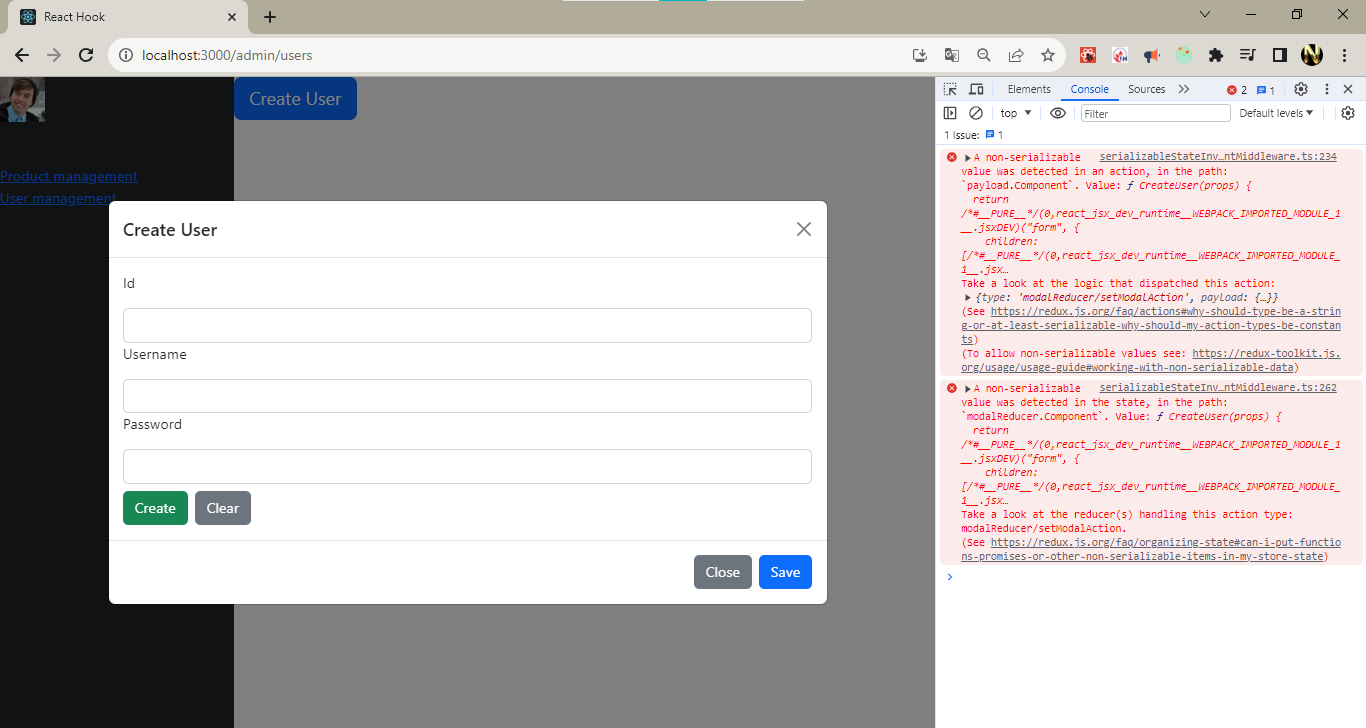
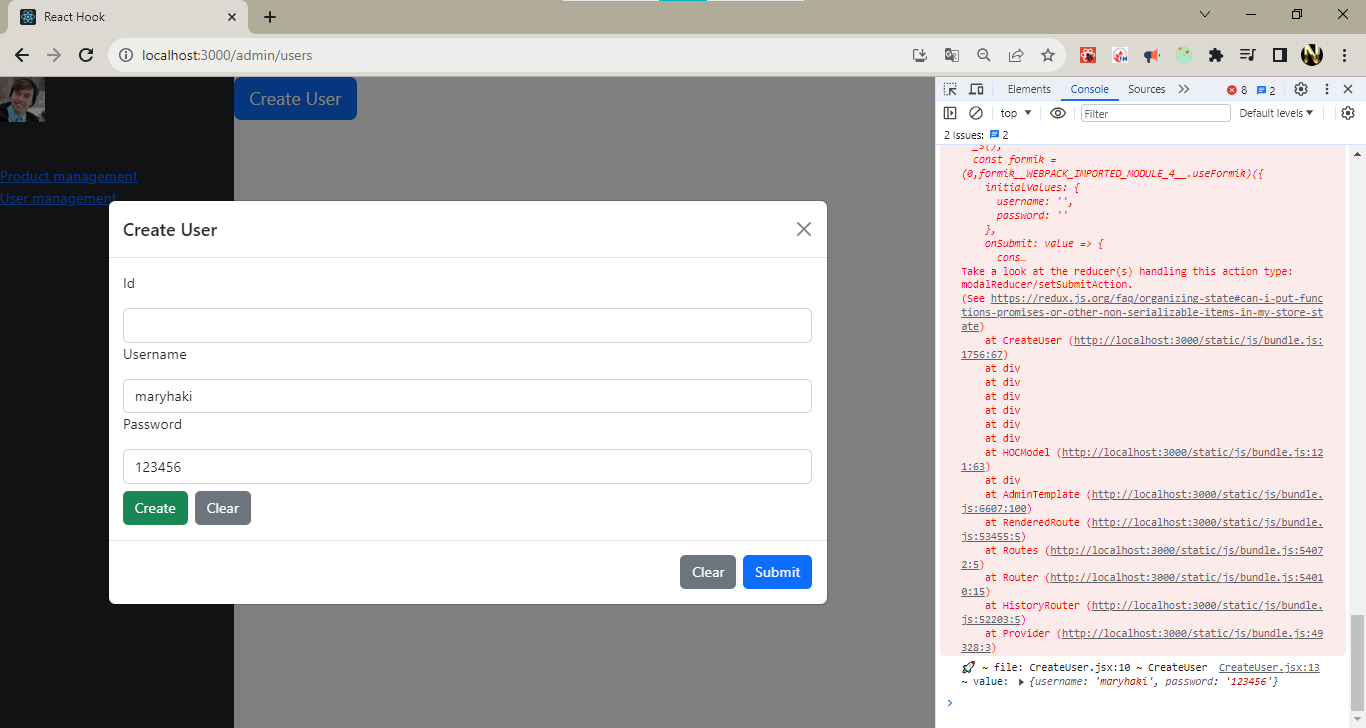
HOC reducer - chuyen data form - fun

diff --git a/react_buoi10/src/pages/Admin/UserManagement/CreateUser.jsx b/react_buoi10/src/pages/Admin/UserManagement/CreateUser.jsx
@@ -1,27 +1,65 @@
-import React from "react";
+import { useFormik } from "formik";
+import React, { useEffect } from "react";
+import { useDispatch } from "react-redux";
+import { setSubmitAction } from "../../../redux/reducers/modalReducer";
 
 export default function CreateUser(props) {
+  const formik = useFormik({
+    initialValues: {
+      username: '',
+      password:''
+    },
+    onSubmit: (value) => {
+      console.log("🚀 ~ file: CreateUser.jsx:10 ~ CreateUser ~ value:", value)
+      
+    } 
+  });
+
+const dispatch = useDispatch();
+
+  useEffect(()=> {
+    const action = setSubmitAction(formik.handleSubmit);
+
+    dispatch(action);
+  }, [])
+
+
   return (
     <form>
-      <div className="form-group">
+      <div className="form-group" onSubmit={formik.handleSubmit}>
         <p>Id</p>
         <input type="text" name="id" id="id" className="form-control" />
       </div>
 
       <div className="form-group">
         <p>Username</p>
-        <input type="text" name="username" id="username" className="form-control" />
+        <input
+          type="text"
+          name="username"
+          id="username"
+          className="form-control"
+          onChange={formik.handleChange}
+        />
       </div>
-
 
       <div className="form-group">
         <p>Password</p>
-        <input type="text" name="password" id="password" className="form-control" />
+        <input
+          type="text"
+          name="password"
+          id="password"
+          className="form-control"
+          onChange={formik.handleChange}
+        />
       </div>
 
       <div className="form-group mt-2">
-        <button type="submit" className="btn btn-success">Create</button>
-        <button type="reset" className="btn btn-secondary mx-2">Clear</button>
+        <button type="submit" className="btn btn-success">
+          Create
+        </button>
+        <button type="reset" className="btn btn-secondary mx-2">
+          Clear
+        </button>
       </div>
     </form>
   );

diff --git a/react_buoi10/src/pages/Admin/ProductManagement/CreateProduct.jsx b/react_buoi10/src/pages/Admin/ProductManagement/CreateProduct.jsx
@@ -1,21 +1,44 @@
-import React from "react";
+import { useFormik } from "formik";
+import React, { useEffect } from "react";
+import { useDispatch } from "react-redux";
+import { setClearAction, setSubmitAction } from "../../../redux/reducers/modalReducer";
 
 export default function CreateProduct(props) {
+
+    const  formik = useFormik({
+        initialValues: {
+            name:'',
+            price:'',
+        },
+        onSubmit: (value) => {
+            console.log("🚀 ~ file: CreateProduct.jsx:12 ~ CreateProduct ~ value:", value)
+        },
+        // onReset: (value)
+    })
+
+    const dispatch = useDispatch();
+    useEffect(()=>{
+        const action = setSubmitAction(formik.handleSubmit)
+
+        dispatch(action);
+        
+    }, [])
+
   return (
     <form>
-      <div className="form-group">
+      <div className="form-group" onSubmit={formik.handleSubmit}>
         <p>Id</p>
         <input type="text" name="id" id="id" className="form-control" />
       </div>
 
       <div className="form-group">
         <p>Name</p>
-        <input type="text" name="name" id="name" className="form-control" />
+        <input type="text" name="name" id="name" onChange={formik.handleChange} onBlur={formik.handleBlur} className="form-control" />
       </div>
 
       <div className="form-group">
         <p>price</p>
-        <input type="number" name="price" id="price" className="form-control" />
+        <input type="number" name="price" onChange={formik.handleChange} onBlur={formik.handleBlur} id="price" className="form-control" />
       </div>
 
       <div className="form-group mt-2">

diff --git a/react_buoi10/src/HOC/HOCModel.jsx b/react_buoi10/src/HOC/HOCModel.jsx
@@ -5,7 +5,7 @@ export default function HOCModel(props) {
 
 
   // HOC theo reducer
-  const {title, Component, Component2} = useSelector(state => state.modalReducer);
+  const {title, Component, Component2, clearForm, submitForm} = useSelector(state => state.modalReducer);
 
   
   return (
@@ -56,12 +56,12 @@ export default function HOCModel(props) {
                 <button
                   type="button"
                   className="btn btn-secondary"
-                  data-bs-dismiss="modal"
+                  onClick={clearForm}
                 >
-                  Close
+                  Clear
                 </button>
-                <button type="button" className="btn btn-primary">
-                  Save
+                <button type="button" onClick={submitForm} className="btn btn-primary">
+                  Submit
                 </button>
               </div>
             </div>

diff --git a/react_buoi10/src/redux/reducers/modalReducer.jsx b/react_buoi10/src/redux/reducers/modalReducer.jsx
@@ -1,4 +1,5 @@
 //rxslice
+import React from "react";
 
 import { createSlice } from "@reduxjs/toolkit";
 
@@ -13,6 +14,11 @@ const initialState = {
     return <div>default value</div>;
   },
   Component2: ComponentDefault,
+  submitForm: () => {
+    alert('submit form');
+  },
+  
+  
 };
 
 const modalReducer = createSlice({
@@ -27,8 +33,12 @@ const modalReducer = createSlice({
       state.Component = Component;
       state.title = title;
     },
+    setSubmitAction: (state, action) => {
+        state.submitForm = action.payload
+    },
+   
   },
 });
 // exp nay de sử dụng theo cách 2
-export const { setModalAction } = modalReducer.actions;
+export const { setModalAction, setSubmitAction } = modalReducer.actions;
 export default modalReducer.reducer;
